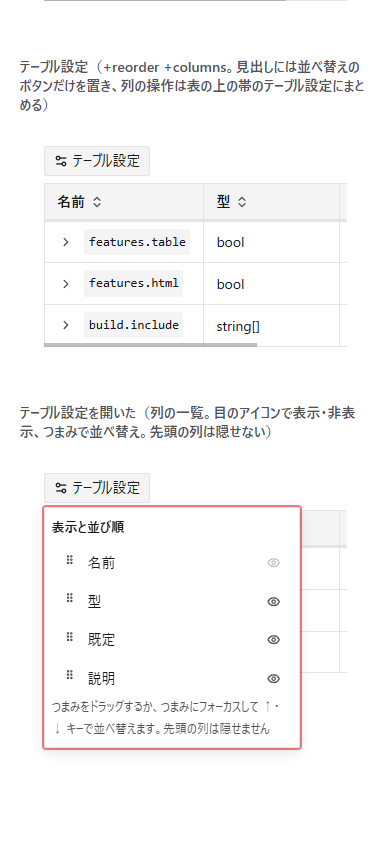
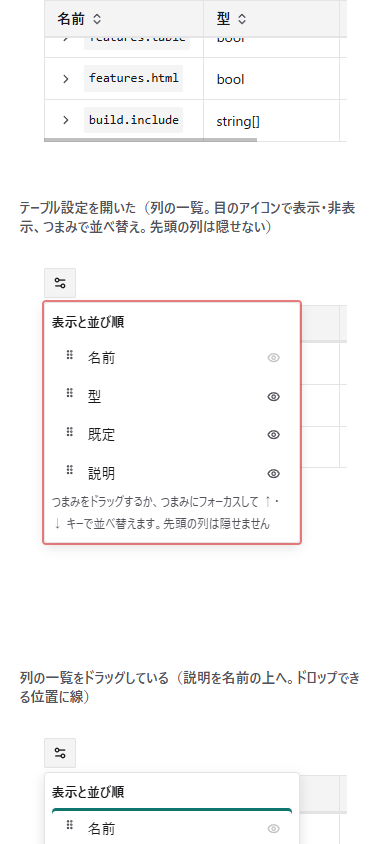
mock: テーブル設定のボタンをアイコンだけにし、隠した列の数のバッジを出す (#303)

diff --git a/dev/mock/components/table/index.html b/dev/mock/components/table/index.html
@@ -1269,12 +1269,12 @@
 
       <!-- #184 列の並べ替え: 見出しに列の操作を置かず、帯の「列設定」を「テーブル設定」に変えて、表示・非表示と並べ替えをまとめる -->
       <section aria-labelledby="state-303-reorder">
-        <h2 class="catalog-label" id="state-303-reorder">テーブル設定（+reorder +columns。見出しには並べ替えのボタンだけを置き、列の操作は表の上の帯のテーブル設定にまとめる）</h2>
+        <h2 class="catalog-label" id="state-303-reorder">テーブル設定（+reorder +columns。見出しには並べ替えのボタンだけを置き、列の操作は表の上の帯のアイコンだけのボタン（ツールチップ「テーブル設定」）にまとめる）</h2>
         <article class="mdmark">
 <div class="mdmark-table" data-kind="data" data-settings>
   <div class="mdmark-table-bar">
     <div class="mdmark-table-tools">
-      <button class="mdmark-table-tool mdmark-table-settings-toggle" type="button" aria-expanded="false" aria-controls="ts-a"><svg class="mdmark-icon" viewBox="0 0 24 24" aria-hidden="true"><path d="M20 7h-9"/><path d="M14 17H5"/><circle cx="17" cy="17" r="3"/><circle cx="7" cy="7" r="3"/></svg>テーブル設定</button>
+      <button class="mdmark-table-tool mdmark-table-settings-toggle is-icon-only" type="button" aria-expanded="false" aria-controls="ts-a" aria-label="テーブル設定" title="テーブル設定"><svg class="mdmark-icon" viewBox="0 0 24 24" aria-hidden="true"><path d="M20 7h-9"/><path d="M14 17H5"/><circle cx="17" cy="17" r="3"/><circle cx="7" cy="7" r="3"/></svg></button>
     </div>
   <div class="mdmark-table-settings" id="ts-a" role="dialog" aria-label="テーブル設定" hidden>
     <p class="mdmark-table-settings-title">表示と並び順</p>
@@ -1301,7 +1301,7 @@
 <div class="mdmark-table" data-kind="data" data-settings>
   <div class="mdmark-table-bar">
     <div class="mdmark-table-tools">
-      <button class="mdmark-table-tool mdmark-table-settings-toggle" type="button" aria-expanded="true" aria-controls="ts-b"><svg class="mdmark-icon" viewBox="0 0 24 24" aria-hidden="true"><path d="M20 7h-9"/><path d="M14 17H5"/><circle cx="17" cy="17" r="3"/><circle cx="7" cy="7" r="3"/></svg>テーブル設定</button>
+      <button class="mdmark-table-tool mdmark-table-settings-toggle is-icon-only" type="button" aria-expanded="true" aria-controls="ts-b" aria-label="テーブル設定" title="テーブル設定"><svg class="mdmark-icon" viewBox="0 0 24 24" aria-hidden="true"><path d="M20 7h-9"/><path d="M14 17H5"/><circle cx="17" cy="17" r="3"/><circle cx="7" cy="7" r="3"/></svg></button>
     </div>
   <div class="mdmark-table-settings" id="ts-b" role="dialog" aria-label="テーブル設定">
     <p class="mdmark-table-settings-title">表示と並び順</p>
@@ -1330,7 +1330,7 @@
 <div class="mdmark-table" data-kind="data" data-settings>
   <div class="mdmark-table-bar">
     <div class="mdmark-table-tools">
-      <button class="mdmark-table-tool mdmark-table-settings-toggle" type="button" aria-expanded="true" aria-controls="ts-c"><svg class="mdmark-icon" viewBox="0 0 24 24" aria-hidden="true"><path d="M20 7h-9"/><path d="M14 17H5"/><circle cx="17" cy="17" r="3"/><circle cx="7" cy="7" r="3"/></svg>テーブル設定</button>
+      <button class="mdmark-table-tool mdmark-table-settings-toggle is-icon-only" type="button" aria-expanded="true" aria-controls="ts-c" aria-label="テーブル設定" title="テーブル設定"><svg class="mdmark-icon" viewBox="0 0 24 24" aria-hidden="true"><path d="M20 7h-9"/><path d="M14 17H5"/><circle cx="17" cy="17" r="3"/><circle cx="7" cy="7" r="3"/></svg></button>
     </div>
   <div class="mdmark-table-settings" id="ts-c" role="dialog" aria-label="テーブル設定">
     <p class="mdmark-table-settings-title">表示と並び順</p>
@@ -1354,12 +1354,12 @@
 
       <!-- #184 動かした後: 見出しと全ての行のセルが一覧と同じ順に動く。ページを開き直すと記載した順に戻る -->
       <section aria-labelledby="state-303-reorder-moved">
-        <h2 class="catalog-label" id="state-303-reorder-moved">並べ替えて説明の列を隠した後（説明・名前・既定・型の順。説明は隠している）</h2>
+        <h2 class="catalog-label" id="state-303-reorder-moved">並べ替えて説明の列を隠した後（説明・名前・既定・型の順。説明は隠している。ボタンに隠した列の数のバッジ）</h2>
         <article class="mdmark">
 <div class="mdmark-table" data-kind="data" data-settings>
   <div class="mdmark-table-bar">
     <div class="mdmark-table-tools">
-      <button class="mdmark-table-tool mdmark-table-settings-toggle" type="button" aria-expanded="true" aria-controls="ts-d"><svg class="mdmark-icon" viewBox="0 0 24 24" aria-hidden="true"><path d="M20 7h-9"/><path d="M14 17H5"/><circle cx="17" cy="17" r="3"/><circle cx="7" cy="7" r="3"/></svg>テーブル設定</button>
+      <button class="mdmark-table-tool mdmark-table-settings-toggle is-icon-only" type="button" aria-expanded="true" aria-controls="ts-d" aria-label="テーブル設定" title="テーブル設定"><svg class="mdmark-icon" viewBox="0 0 24 24" aria-hidden="true"><path d="M20 7h-9"/><path d="M14 17H5"/><circle cx="17" cy="17" r="3"/><circle cx="7" cy="7" r="3"/></svg><span class="mdmark-table-tool-badge" aria-hidden="true">1</span><span class="mdmark-visually-hidden">（1 列を隠しています）</span></button>
     </div>
   <div class="mdmark-table-settings" id="ts-d" role="dialog" aria-label="テーブル設定">
     <p class="mdmark-table-settings-title">表示と並び順</p>
@@ -1388,7 +1388,7 @@
 <div class="mdmark-table" data-kind="data" data-settings>
   <div class="mdmark-table-bar">
     <div class="mdmark-table-tools">
-      <button class="mdmark-table-tool mdmark-table-settings-toggle" type="button" aria-expanded="true" aria-controls="ts-e"><svg class="mdmark-icon" viewBox="0 0 24 24" aria-hidden="true"><path d="M20 7h-9"/><path d="M14 17H5"/><circle cx="17" cy="17" r="3"/><circle cx="7" cy="7" r="3"/></svg>テーブル設定</button>
+      <button class="mdmark-table-tool mdmark-table-settings-toggle is-icon-only" type="button" aria-expanded="true" aria-controls="ts-e" aria-label="テーブル設定" title="テーブル設定"><svg class="mdmark-icon" viewBox="0 0 24 24" aria-hidden="true"><path d="M20 7h-9"/><path d="M14 17H5"/><circle cx="17" cy="17" r="3"/><circle cx="7" cy="7" r="3"/></svg></button>
     </div>
   <div class="mdmark-table-settings" id="ts-e" role="dialog" aria-label="テーブル設定">
     <p class="mdmark-table-settings-title">並び順</p>
@@ -1417,7 +1417,7 @@
 <div class="mdmark-table" data-kind="data" data-settings style="max-inline-size: 22rem;">
   <div class="mdmark-table-bar">
     <div class="mdmark-table-tools">
-      <button class="mdmark-table-tool mdmark-table-settings-toggle" type="button" aria-expanded="true" aria-controls="ts-f"><svg class="mdmark-icon" viewBox="0 0 24 24" aria-hidden="true"><path d="M20 7h-9"/><path d="M14 17H5"/><circle cx="17" cy="17" r="3"/><circle cx="7" cy="7" r="3"/></svg>テーブル設定</button>
+      <button class="mdmark-table-tool mdmark-table-settings-toggle is-icon-only" type="button" aria-expanded="true" aria-controls="ts-f" aria-label="テーブル設定" title="テーブル設定"><svg class="mdmark-icon" viewBox="0 0 24 24" aria-hidden="true"><path d="M20 7h-9"/><path d="M14 17H5"/><circle cx="17" cy="17" r="3"/><circle cx="7" cy="7" r="3"/></svg></button>
     </div>
   <div class="mdmark-table-settings" id="ts-f" role="dialog" aria-label="テーブル設定">
     <p class="mdmark-table-settings-title">表示と並び順</p>

diff --git a/dev/mock/refs/303/assets/table.css b/dev/mock/refs/303/assets/table.css
@@ -2,6 +2,27 @@
 @layer mdmark {
   /* ---- テーブル設定（列の表示・非表示と並べ替え） ---- */
 
+  /* テーブル設定のボタン: アイコンだけ。名前はツールチップと読み上げで伝え、隠した列の数をバッジで出す */
+  .mdmark-table-settings-toggle.is-icon-only {
+    position: relative;
+    justify-content: center;
+    min-inline-size: 2rem;
+    padding-inline: 0.4rem;
+  }
+  .mdmark-table-tool-badge {
+    position: absolute;
+    inset-block-start: -0.4rem;
+    inset-inline-end: -0.4rem;
+    min-inline-size: 1.1rem;
+    padding: 0 0.25rem;
+    border-radius: 999px;
+    background: var(--mdmark-color-link);
+    color: var(--mdmark-color-bg);
+    font-size: 0.6875rem;
+    line-height: 1.1rem;
+    text-align: center;
+  }
+
   /* テーブル設定のパネル: 表の上の帯のボタンで開く。列の一覧を縦に並べる */
   .mdmark-table-settings {
     position: absolute;

diff --git a/dev/mock/components/index.md b/dev/mock/components/index.md
@@ -41,7 +41,7 @@
 | [side-toc-head](./side-toc-head/index.html) | 右側の目次の頭（すべて展開・すべて折りたたむ・ピン止めの 3 つのボタン）と、ピン止めのボタンのアイコンの案ごとの押す前・ホバー・フォーカス・押した後 |
 | [steps](./steps/index.html) | 番号と線でつないだ手順と、閉じたステップ・`title=` のタイトル・読めない指定の書き方の警告 |
 | [syntax-warning](./syntax-warning/index.html) | 読めない指定とその直し方を書く人へ知らせる書き方の警告 |
-| [table](./table/index.html) | 表の種類ごとの見た目と、並べ替え・絞り込み・ピン止め・閉じた表・件数の表示・列の表示の切り替え・計算ごとの集計の行・コピーの形式・行へのリンク、画面の上端と下端に留める見出し行と集計の行、狭い幅で畳む最終列、閉じた表の見出しと `title=`、列の強調と行の色、はみ出す表の既定のピン止めと `-pin`・`pin=`・`wide=`・`check=` の ✓、多段の見出し・行見出し・セルの結合と並べ替え・絞り込みの後の結合し直し・行見出しの列までのピン止め、列の並べ替え（`+reorder`）のつまみ・ドラッグ・列のメニュー・結合した見出しの範囲、キーの列の階層（`tree=`）と補った親の行・ツールチップ・コピー・折りたたみ・絞り込み・行の選択、YAML の見本（`example=`）との連動と表示の切り替え |
+| [table](./table/index.html) | 表の種類ごとの見た目と、並べ替え・絞り込み・ピン止め・閉じた表・件数の表示・列の表示の切り替え・計算ごとの集計の行・コピーの形式・行へのリンク、画面の上端と下端に留める見出し行と集計の行、狭い幅で畳む最終列、閉じた表の見出しと `title=`、列の強調と行の色、はみ出す表の既定のピン止めと `-pin`・`pin=`・`wide=`・`check=` の ✓、多段の見出し・行見出し・セルの結合と並べ替え・絞り込みの後の結合し直し・行見出しの列までのピン止め、列の並べ替え（`+reorder`）のテーブル設定の列の一覧・ドラッグ・結合した見出しの範囲、キーの列の階層（`tree=`）と補った親の行・ツールチップ・コピー・折りたたみ・絞り込み・行の選択、YAML の見本（`example=`）との連動と表示の切り替え |
 | [tabs](./tabs/index.html) | 見出しの文字をタブ名にしたタブと、URL の ID が指す見出しを持つタブを選ぶ処理、閉じたタブ・`title=` のタイトル、入れ子のタブ・太字のタブ名・入れ子の閉じが足りない書き方の警告 |
 | [term-tooltip](./term-tooltip/index.html) | 用語と文書の別名の破線の下線・やめた言い方の波線の下線と、ポインター・フォーカスで開く用語・関連文書・代わりの用語のツールチップと、エイリアスの種類ごとのツールチップ・コマンドのコピーのボタン |
 | [toc](./toc/index.html) | 見出しを階層どおりに入れ子にした目次と、描いた文書の右側の目次（hover の右端の線・ピン止め、fixed のサイドバー、今いる節のハイライト、狭い幅の帯） |

diff --git a/dev/pr/303/確認ログ.md b/dev/pr/303/確認ログ.md
@@ -5,3 +5,4 @@
 | 結合した見出しの下の列とピン止めした列の動かし方 | 結合した見出しの範囲の中だけで動かし、ピン止めの境はまたがせない（推奨案 A） | 👍 | shuhei1101 | - | [スレッド](https://github.com/shuhei1101/mdmark/pull/303#discussion_r4459240625) |
 | YAML の見本の結び方と表示の既定 | `example=見出し` で見出しの下のタブを見本にし、表の下に置いて既定で表示する（推奨案 A） | 👍 | shuhei1101 | - | [スレッド](https://github.com/shuhei1101/mdmark/pull/303#discussion_r4459242275) |
 | モックへの合意 | 見出しの ⋯ の列のメニューをやめ、表の上の帯の「列設定」を「テーブル設定」に変えて、列の一覧で表示・非表示（目のアイコン）と並べ替え（ドラッグ＆ドロップ）をまとめる（別案 B） | 返信 | shuhei1101 | - | [スレッド](https://github.com/shuhei1101/mdmark/pull/303#discussion_r4459507281) |
+| 「列設定」を「テーブル設定」に変える変更と #172（PR #308）との進め方 | #308 のマージを待って取り込み、アイコンだけのボタンとバッジは #172 のまま、ツールチップと読み上げを「テーブル設定」にし、一覧を目のアイコンとつまみに変える（推奨案 A） | 👍 | shuhei1101 | - | [スレッド](https://github.com/shuhei1101/mdmark/pull/303#discussion_r4459773366) |

diff --git a/dev/mock/refs/303/index.md b/dev/mock/refs/303/index.md
@@ -4,5 +4,5 @@
 
 | 見るもの | リンク |
 | --- | --- |
-| 表の列の並べ替え（`+reorder`）のつまみ・ドラッグ・列のメニュー・結合した見出しとピン止めの範囲、キーの列の階層（`tree=`）・折りたたみ・絞り込み・行の選択・YAML の見本との連動 | [table](../../components/table/index.html#state-303-reorder) |
+| 表の列の並べ替え（`+reorder`）のテーブル設定の列の一覧・ドラッグ・結合した見出しとピン止めの範囲、キーの列の階層（`tree=`）・折りたたみ・絞り込み・行の選択・YAML の見本との連動 | [table](../../components/table/index.html#state-303-reorder) |
 | 範囲の `css`・`ts` を当てた埋め込んだ HTML・押した後・機能がオフ・スクリプトを動かせない・変換のライブラリを読めない | [embedded-html](../../components/embedded-html/index.html#state-303-scripts) |
